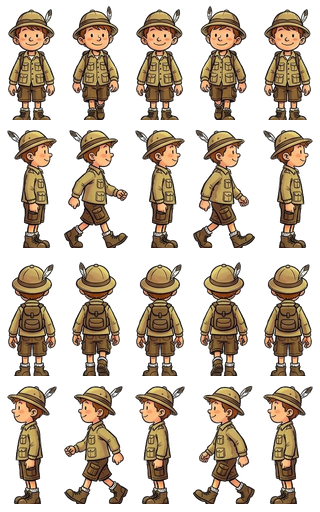
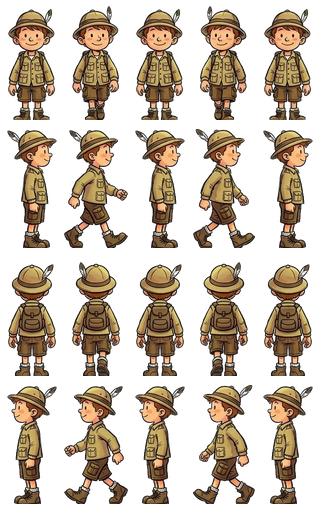
Personnages : costumes égyptien, gaulois, grec et chinois
Quatre nouvelles planches Gemini, découpées par le script, qui accepte
maintenant des grilles différentes (PLANCHES), des planches sans traits
entre les cases, et efface le trait de sol sous les pieds.

Grec et chinois n'ont pas de pas de face ni de dos : le héros y glisse
sans bouger les jambes. Le chinois ne garde que les cases à tunique
rouge, la planche mélangeant rouge et bleu.

diff --git a/src/characters/costumes.js b/src/characters/costumes.js
@@ -1,9 +1,20 @@
+import chinoisUrl from '../assets/personnages/chinois.png';
+import egyptienUrl from '../assets/personnages/egyptien.png';
 import explorateurUrl from '../assets/personnages/explorateur.png';
+import gauloisUrl from '../assets/personnages/gaulois.png';
+import grecUrl from '../assets/personnages/grec.png';
 import pirateUrl from '../assets/personnages/pirate.png';
 
 // Les costumes du héros. Un monde choisit le sien avec sa propriété `costume` (src/parcours/worlds.js).
 // Toutes les planches ont la même disposition : voir outils/decouper-personnage.py.
-export const COSTUMES = { explorateur: explorateurUrl, pirate: pirateUrl };
+export const COSTUMES = {
+  explorateur: explorateurUrl,
+  pirate: pirateUrl,
+  egyptien: egyptienUrl,
+  gaulois: gauloisUrl,
+  grec: grecUrl,
+  chinois: chinoisUrl,
+};
 
 const DEFAULT_COSTUME = 'explorateur';
 

diff --git a/outils/decouper-personnage.py b/outils/decouper-personnage.py
@@ -1,14 +1,18 @@
 """Découpe une planche de personnage faite par Gemini en sprites pour le jeu.
 
-La planche : 3 lignes (face, dos, profil vers la droite) de 5 cases, séparées par des traits noirs,
-sur fond blanc. Cases utilisées : de face et de dos, 1 = debout et 2 = un pied en avant ; de profil, 2 = debout,
-3 et 5 = marche. Les autres, tournées de trois quarts ou en double, sont ignorées.
+Chaque planche est rangée dans docs/personnages/<nom>-planche.jpg, sur fond blanc, avec ou sans traits
+noirs entre les cases. PLANCHES ci-dessous dit, pour chacune, sa grille et les cases à prendre
+(ligne, colonne, en comptant depuis 0) :
+- face, dos : la pose debout, puis, si la planche en a une, un pas vu bien de face (ou de dos) ;
+  l'autre pas est le même dessin retourné ;
+- profil (tourné vers la droite) : la pose debout, puis un ou deux pas.
+Les cases tournées de trois quarts ne servent pas : le héros semblerait marcher en biais.
 
-Résultat : 4 lignes (bas, droite, haut, gauche) de 5 dessins de 64×128 :
+Résultat : src/assets/personnages/<nom>.png, 4 lignes (bas, droite, haut, gauche) de 5 dessins de 64×128 :
 le dessin à l'arrêt, puis les 4 temps de la marche. La gauche est le profil retourné.
 
 Utilisation, avec Python et Pillow (pip install pillow numpy scipy) :
-    python outils/decouper-personnage.py docs/personnages/explorateur-planche.jpg src/assets/personnages/explorateur.png
+    python outils/decouper-personnage.py pirate
 """
 
 import sys
@@ -17,24 +21,91 @@ import numpy as np
 from PIL import Image
 from scipy import ndimage
 
+PLANCHES = {
+    'explorateur': {
+        'grille': (3, 5),
+        'face': [(0, 0), (0, 1)],
+        'dos': [(1, 0), (1, 1)],
+        # Case 2 plutôt que 1 pour la pose debout : la plume y est visible, comme pendant la marche.
+        'profil': [(2, 1), (2, 2), (2, 4)],
+    },
+    'pirate': {
+        'grille': (3, 5),
+        'face': [(0, 0), (0, 1)],
+        'dos': [(1, 0), (1, 1)],
+        'profil': [(2, 1), (2, 2), (2, 4)],
+    },
+    'egyptien': {
+        'grille': (3, 5),
+        'face': [(0, 0), (0, 1)],
+        'dos': [(1, 0), (1, 1)],
+        'profil': [(2, 0), (2, 2), (2, 4)],
+    },
+    'gaulois': {
+        'grille': (3, 3),
+        'face': [(0, 0), (0, 1)],
+        'dos': [(1, 0), (1, 1)],
+        'profil': [(2, 0), (2, 1), (2, 2)],
+    },
+    # Pas de pas de face ni de dos sur cette planche : le héros glisse sans bouger les jambes.
+    'grec': {
+        'grille': (3, 3),
+        'face': [(0, 0)],
+        'dos': [(1, 0)],
+        'profil': [(2, 0), (2, 1), (2, 2)],
+    },
+    # La tunique change de couleur d'une case à l'autre : seules les cases rouges sont prises.
+    'chinois': {
+        'grille': (2, 6),
+        'face': [(0, 0)],
+        'dos': [(0, 3)],
+        'profil': [(1, 0), (1, 5)],
+    },
+}
+
 FRAME_W, FRAME_H = 64, 128  # 16×32 pixels de salle, agrandis 4 fois par la caméra
 FEET_Y = 120  # bas des pieds dans le dessin : 30 pixels de salle, comme la boîte de collision
 HERO_HEIGHT = 112  # hauteur du personnage debout, chapeau compris
 WHITE = 225  # au-dessus, sur les trois couleurs, un pixel touchant le bord compte comme fond
+GROUND_BAND = 14  # pixels du bas du personnage où chercher un trait de sol
+GROUND_THICKNESS = 5  # un trait plus fin que ça, sans rien au-dessus, n'est pas le personnage
 
 
-def grid_lines(gray, axis):
-    """Positions des traits noirs qui traversent toute la planche."""
-    dark = (gray < 90).mean(axis=axis) > 0.9
-    lines = np.where(dark)[0]
-    groups = np.split(lines, np.where(np.diff(lines) > 1)[0] + 1)
-    return [int(group.mean()) for group in groups]
+def bounds(gray, axis, count):
+    """Limites des cases sur un axe : les traits noirs s'il y en a, sinon des cases égales."""
+    size = gray.shape[1 - axis]
+    dark = np.where((gray < 90).mean(axis=axis) > 0.8)[0]
+    lines = [int(g.mean()) for g in np.split(dark, np.where(np.diff(dark) > 1)[0] + 1) if len(g)]
+    margin = size * 0.05  # un trait collé au bord de la planche n'est qu'un cadre ou un sol
+    lines = [x for x in lines if margin < x < size - margin]
+    if len(lines) != count - 1:
+        lines = [round(size * i / count) for i in range(1, count)]
+    return [0, *lines, size]
 
 
-def cells(sheet):
+def cells(sheet, rows, columns):
     gray = np.asarray(sheet.convert('L'))
-    xs, ys = grid_lines(gray, 0), grid_lines(gray, 1)
-    return [[(xs[c] + 6, ys[r] + 6, xs[c + 1] - 6, ys[r + 1] - 6) for c in range(len(xs) - 1)] for r in range(len(ys) - 1)]
+    xs, ys = bounds(gray, 0, columns), bounds(gray, 1, rows)
+    return [[(xs[c] + 6, ys[r] + 6, xs[c + 1] - 6, ys[r + 1] - 6) for c in range(columns)] for r in range(rows)]
+
+
+def erase_ground(figure):
+    """Efface le trait de sol sous les pieds : en bas, un trait fin avec du blanc au-dessus.
+
+    figure : les pixels qui ne sont pas blancs. Modifié sur place."""
+    bottom = np.where(figure.any(axis=1))[0][-1]
+    for x in range(figure.shape[1]):
+        y = bottom
+        while y > bottom - GROUND_BAND:
+            if not figure[y, x]:
+                y -= 1
+                continue
+            top = y
+            while top > 0 and figure[top - 1, x]:
+                top -= 1
+            if y - top + 1 <= GROUND_THICKNESS:
+                figure[top : y + 1, x] = False
+            y = top - 1
 
 
 def cut_out(sheet, box):
@@ -44,6 +115,19 @@ def cut_out(sheet, box):
     labels, _ = ndimage.label(light)
     border = set(np.unique(np.concatenate([labels[0], labels[-1], labels[:, 0], labels[:, -1]]))) - {0}
     background = np.isin(labels, list(border))
+    ink = ~light
+    erase_ground(ink)
+    # Sans le trait de sol, le blanc entre les jambes rejoint le bord : c'est du fond, lui aussi.
+    figure = ~background
+    labels, _ = ndimage.label(~ink)
+    border = set(np.unique(np.concatenate([labels[0], labels[-1], labels[:, 0], labels[:, -1]]))) - {0}
+    figure &= ~np.isin(labels, list(border))
+    # Seul le plus gros morceau est le personnage : les miettes de trait autour disparaissent.
+    pieces, count = ndimage.label(figure)
+    if count > 1:
+        sizes = ndimage.sum(figure, pieces, range(1, count + 1))
+        figure = pieces == 1 + int(np.argmax(sizes))
+    background = ~figure
     alpha = np.where(background, 0, 255).astype(np.uint8)
     # Le liseré clair autour du trait noir s'efface en douceur.
     edge = ndimage.binary_dilation(background) & ~background
@@ -62,25 +146,39 @@ def place(figure, scale):
     return frame
 
 
-def main(source, target):
-    sheet = Image.open(source)
-    figures = [[cut_out(sheet, box) for box in row] for row in cells(sheet)]
-    front, back, side = figures
+def mirror(figure):
+    return figure.transpose(Image.FLIP_LEFT_RIGHT)
+
+
+def facing_row(poses):
+    """Face ou dos : l'autre pied est le même pas retourné. Sans pas dessiné, le héros reste debout."""
+    standing, *step = poses
+    if not step:
+        return [standing] * 5
+    return [standing, step[0], standing, mirror(step[0]), standing]
+
+
+def side_row(poses):
+    """Profil : les pas dessinés avancent souvent le même pied, la pose debout sert d'entre-deux."""
+    standing, *steps = poses
+    first, second = steps[0], steps[-1]
+    return [standing, first, standing, second, standing]
+
+
+def main(name):
+    planche = PLANCHES[name]
+    sheet = Image.open(f'docs/personnages/{name}-planche.jpg')
+    boxes = cells(sheet, *planche['grille'])
+    pick = lambda key: [cut_out(sheet, boxes[r][c]) for r, c in planche[key]]
+    front, back, side = pick('face'), pick('dos'), pick('profil')
+
     scale = HERO_HEIGHT / front[0].height  # même échelle partout : le personnage ne change pas de taille
-    widest = max(f.width for row in figures for f in row) * scale
+    widest = max(f.width for f in front + back + side) * scale
     if widest > FRAME_W:
         scale *= FRAME_W / widest
 
-    mirror = lambda figure: figure.transpose(Image.FLIP_LEFT_RIGHT)
-    # Face et dos : un seul pas dessiné, l'autre pied est le même dessin retourné.
-    # Profil : les pas dessinés avancent tous le même pied, la pose debout sert d'entre-deux.
-    # La case 2 du profil plutôt que la 1 : la plume y est visible, comme pendant la marche.
-    rows = [
-        [front[0], front[1], front[0], mirror(front[1]), front[0]],
-        [side[1], side[2], side[1], side[4], side[1]],
-        [back[0], back[1], back[0], mirror(back[1]), back[0]],
-        [mirror(f) for f in (side[1], side[2], side[1], side[4], side[1])],
-    ]
+    side_poses = side_row(side)
+    rows = [facing_row(front), side_poses, facing_row(back), [mirror(f) for f in side_poses]]
     out = Image.new('RGBA', (FRAME_W * 5, FRAME_H * 4))
     for r, row in enumerate(rows):
         for c, figure in enumerate(row):
@@ -88,8 +186,10 @@ def main(source, target):
     # Les pixels transparents deviennent noirs : même image, fichier plus léger.
     pixels = np.asarray(out).copy()
     pixels[pixels[..., 3] == 0] = 0
-    Image.fromarray(pixels).save(target, optimize=True)
+    Image.fromarray(pixels).save(f'src/assets/personnages/{name}.png', optimize=True)
 
 
 if __name__ == '__main__':
-    main(*sys.argv[1:3])
+    for name in sys.argv[1:] or PLANCHES:
+        main(name)
+        print(f'{name} : src/assets/personnages/{name}.png')

diff --git a/CREDITS.md b/CREDITS.md
@@ -18,8 +18,8 @@
 - **Carte des mondes** : image générée avec Gemini pour ce projet, d'après les prompts de `docs/style-images.md`.
   Fichier utilisé : `src/assets/parcours/monde-entier.jpg`.
 
-- **Personnages (explorateur, pirate)** : planches générées avec Gemini pour ce projet, d'après le style de `docs/style-images.md`, puis découpées, détourées et réduites par `outils/decouper-personnage.py`.
-  Planches d'origine : `docs/personnages/`. Fichiers utilisés : `src/assets/personnages/explorateur.png`, `src/assets/personnages/pirate.png`.
+- **Personnages (explorateur, pirate, égyptien, gaulois, grec, chinois)** : planches générées avec Gemini pour ce projet, d'après le style de `docs/style-images.md`, puis découpées, détourées et réduites par `outils/decouper-personnage.py`.
+  Planches d'origine : `docs/personnages/`. Fichiers utilisés : `src/assets/personnages/*.png`.
 
 - **Pictogrammes ARASAAC**, par Sergio Palao. Origine : ARASAAC (https://arasaac.org). Propriété : Gouvernement d'Aragon (Espagne). Licence : Creative Commons BY-NC-SA.
   Fichiers utilisés : `src/assets/pictos/` (un pictogramme par mot, téléchargé par `outils/picto.mjs`).

diff --git a/docs/style-images.md b/docs/style-images.md
@@ -25,8 +25,12 @@ Interdits : aucun personnage, aucun texte, aucune lettre, aucun chiffre, aucun h
 
 Une seule image, pour que le personnage reste le même d'une case à l'autre : 3 lignes (face, dos, profil tourné vers la droite) de 5 cases séparées par des traits noirs, fond blanc uni, corps entier, pieds alignés en bas. Même disposition que `docs/personnages/explorateur-planche.jpg`.
 
-Ranger la planche dans `docs/personnages/`, puis la découper avec Python et Pillow :
+Il faut de face et de dos un pas vu bien de face (ou de dos), pas de trois quarts, et les mêmes habits dans toutes les cases.
+
+Ranger la planche dans `docs/personnages/<nom>-planche.jpg`, décrire sa grille et ses cases dans `PLANCHES`, en tête de `outils/decouper-personnage.py`, puis la découper avec Python et Pillow :
 
 ```bash
-python outils/decouper-personnage.py docs/personnages/pirate-planche.jpg src/assets/personnages/pirate.png
+python outils/decouper-personnage.py pirate
 ```
+
+Enfin, ajouter le costume à `COSTUMES` dans `src/characters/costumes.js`.
